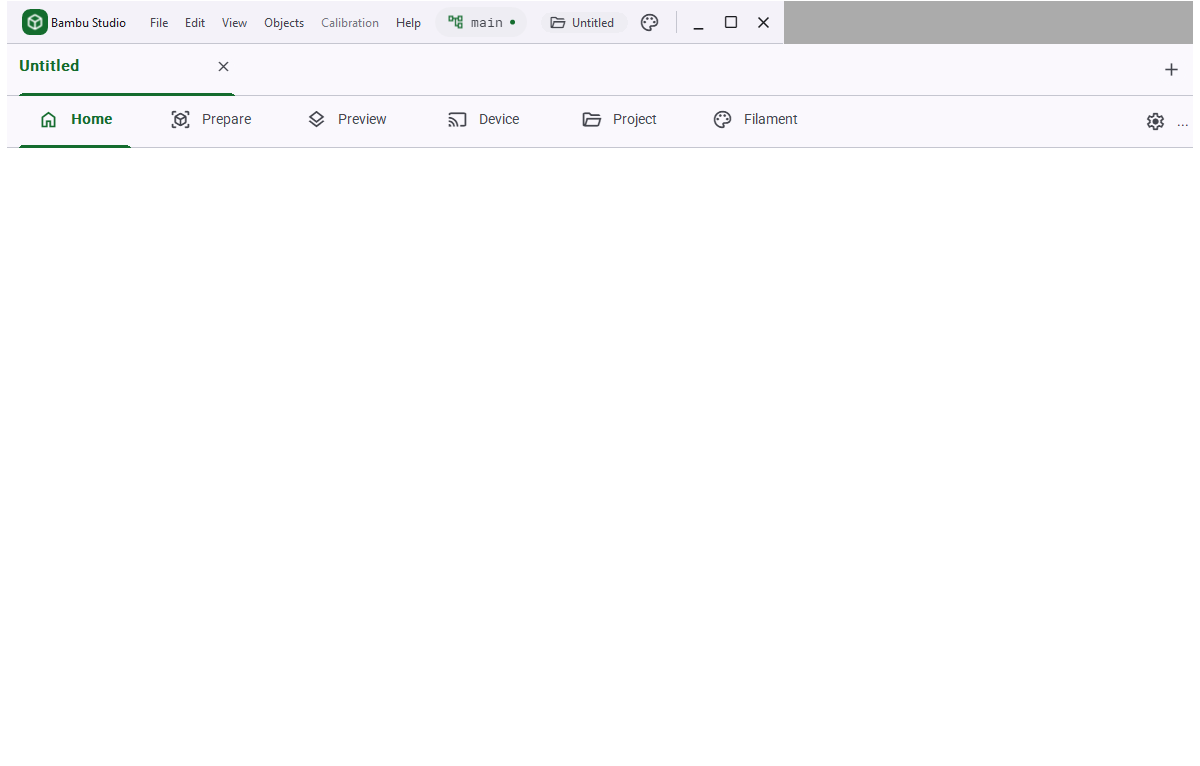
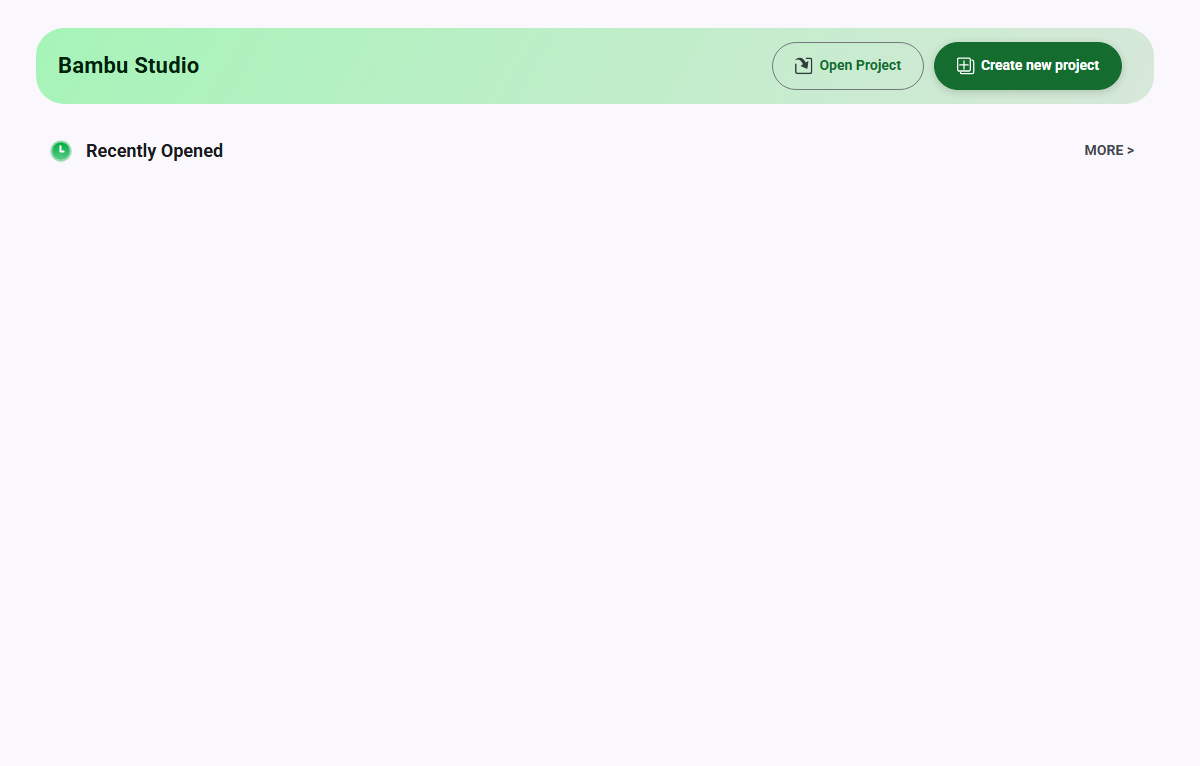
Recapture blank README/wizard screenshots from genuine sources
The README hero and several wizard captures were blank: they were taken
with Win32 PrintWindow, which cannot see WebView2 compositor content, so
every webview body (Home, Setup Wizard pages) came out empty. Refs #5.

- New hero: real app frame (headless llvmpipe capture of the Prepare/
  Preview workspace with the project tab strip and a sliced cube).
- Home page and Setup Wizard welcome page: rendered from the app's own
  bundled page assets (resources/web/homepage3, resources/web/guide/1)
  with headless Edge at the original dimensions; README now states the
  capture method.
- wizard-step-0.png: honest capture of what that page is - the loading
  gate (spinner) shown before the native bridge injects data.
- Removed crops that were empty by construction (steps 0/1/6 have no
  corner nav buttons) and the stale duplicate wizard-step1.png; the
  matrix index explains the removal.

補救白畫面截圖：舊擷取用 PrintWindow，影唔到 WebView2 嘅內容，
搞到主頁同精靈頁全部空白。而家改用 app 自帶嘅網頁資源直接
無頭渲染，主圖仲換埋真程式視窗（切片完個 cube 嗰幅）。

Changed region(s): [[0.0, 0.0, 1.0, 0.2102], [0.8942, 0.1802, 0.9558, 0.2102], [0.9558, 0.1501, 0.9867, 0.1802]]

diff --git a/docs/screenshots/README.md b/docs/screenshots/README.md
@@ -260,12 +260,15 @@ Page shots are `<page>.png`; button close-ups are `<page>--<button>.png` (or ded
 - [`menu-entry.png`](version-history/menu-entry.png)
 - [`topbar-chip.png`](version-history/topbar-chip.png)
 
-## wizard (30 captures)
+## wizard (26 captures)
+
+Steps 0 (loading), 1 (welcome), and 6 (downloading) have no corner
+navigation buttons — their former `--nav-buttons` crops were empty by
+construction and have been removed; each page's real controls appear in
+its full-page capture.
 
 - [`wizard-index.png`](wizard/wizard-index.png)
-- [`wizard-step-0--nav-buttons.png`](wizard/wizard-step-0--nav-buttons.png)
 - [`wizard-step-0.png`](wizard/wizard-step-0.png)
-- [`wizard-step-1--nav-buttons.png`](wizard/wizard-step-1--nav-buttons.png)
 - [`wizard-step-1.png`](wizard/wizard-step-1.png)
 - [`wizard-step-11--nav-buttons.png`](wizard/wizard-step-11--nav-buttons.png)
 - [`wizard-step-11.png`](wizard/wizard-step-11.png)
@@ -289,7 +292,5 @@ Page shots are `<page>.png`; button close-ups are `<page>--<button>.png` (or ded
 - [`wizard-step-31.png`](wizard/wizard-step-31.png)
 - [`wizard-step-5--nav-buttons.png`](wizard/wizard-step-5--nav-buttons.png)
 - [`wizard-step-5.png`](wizard/wizard-step-5.png)
-- [`wizard-step-6--nav-buttons.png`](wizard/wizard-step-6--nav-buttons.png)
 - [`wizard-step-6.png`](wizard/wizard-step-6.png)
-- [`wizard-step1.png`](wizard/wizard-step1.png)
 

diff --git a/README.md b/README.md
@@ -73,11 +73,17 @@ migrated content.
 The new project tab strip (one tab per open project, a close button, and a "+" new-tab button) sits
 between the Material title bar and the workspace tabs.
 
-![Home with the project tab bar](docs/readme-assets/shot-home.png)
+![Sliced preview with the project tab bar](docs/readme-assets/shot-prepare-frame.png)
 
-| Prepare sidebar (Material cards) | First-run Setup Wizard (Material dialog shell) |
+The Home tab and the Setup Wizard body are WebView2 surfaces, shown below as rendered from the
+app's own bundled page assets (a native-window capture cannot include WebView2 compositor
+content, which is why earlier captures of them were blank):
+
+![Home page](docs/readme-assets/shot-home.png)
+
+| Prepare sidebar (Material cards) | First-run Setup Wizard (welcome page) |
 | :---: | :---: |
-| ![Prepare sidebar](docs/readme-assets/shot-prepare-sidebar.png) | ![Setup Wizard](docs/readme-assets/shot-wizard.png) |
+| ![Prepare sidebar](docs/readme-assets/shot-prepare-sidebar.png) | ![Setup Wizard welcome page](docs/readme-assets/shot-wizard.png) |
 
 The Prepare sidebar shows the migrated Printer, Filament, Process, and Object-manipulation cards —
 including the Process card's Quality / Strength / Support / Others segmented control and the
